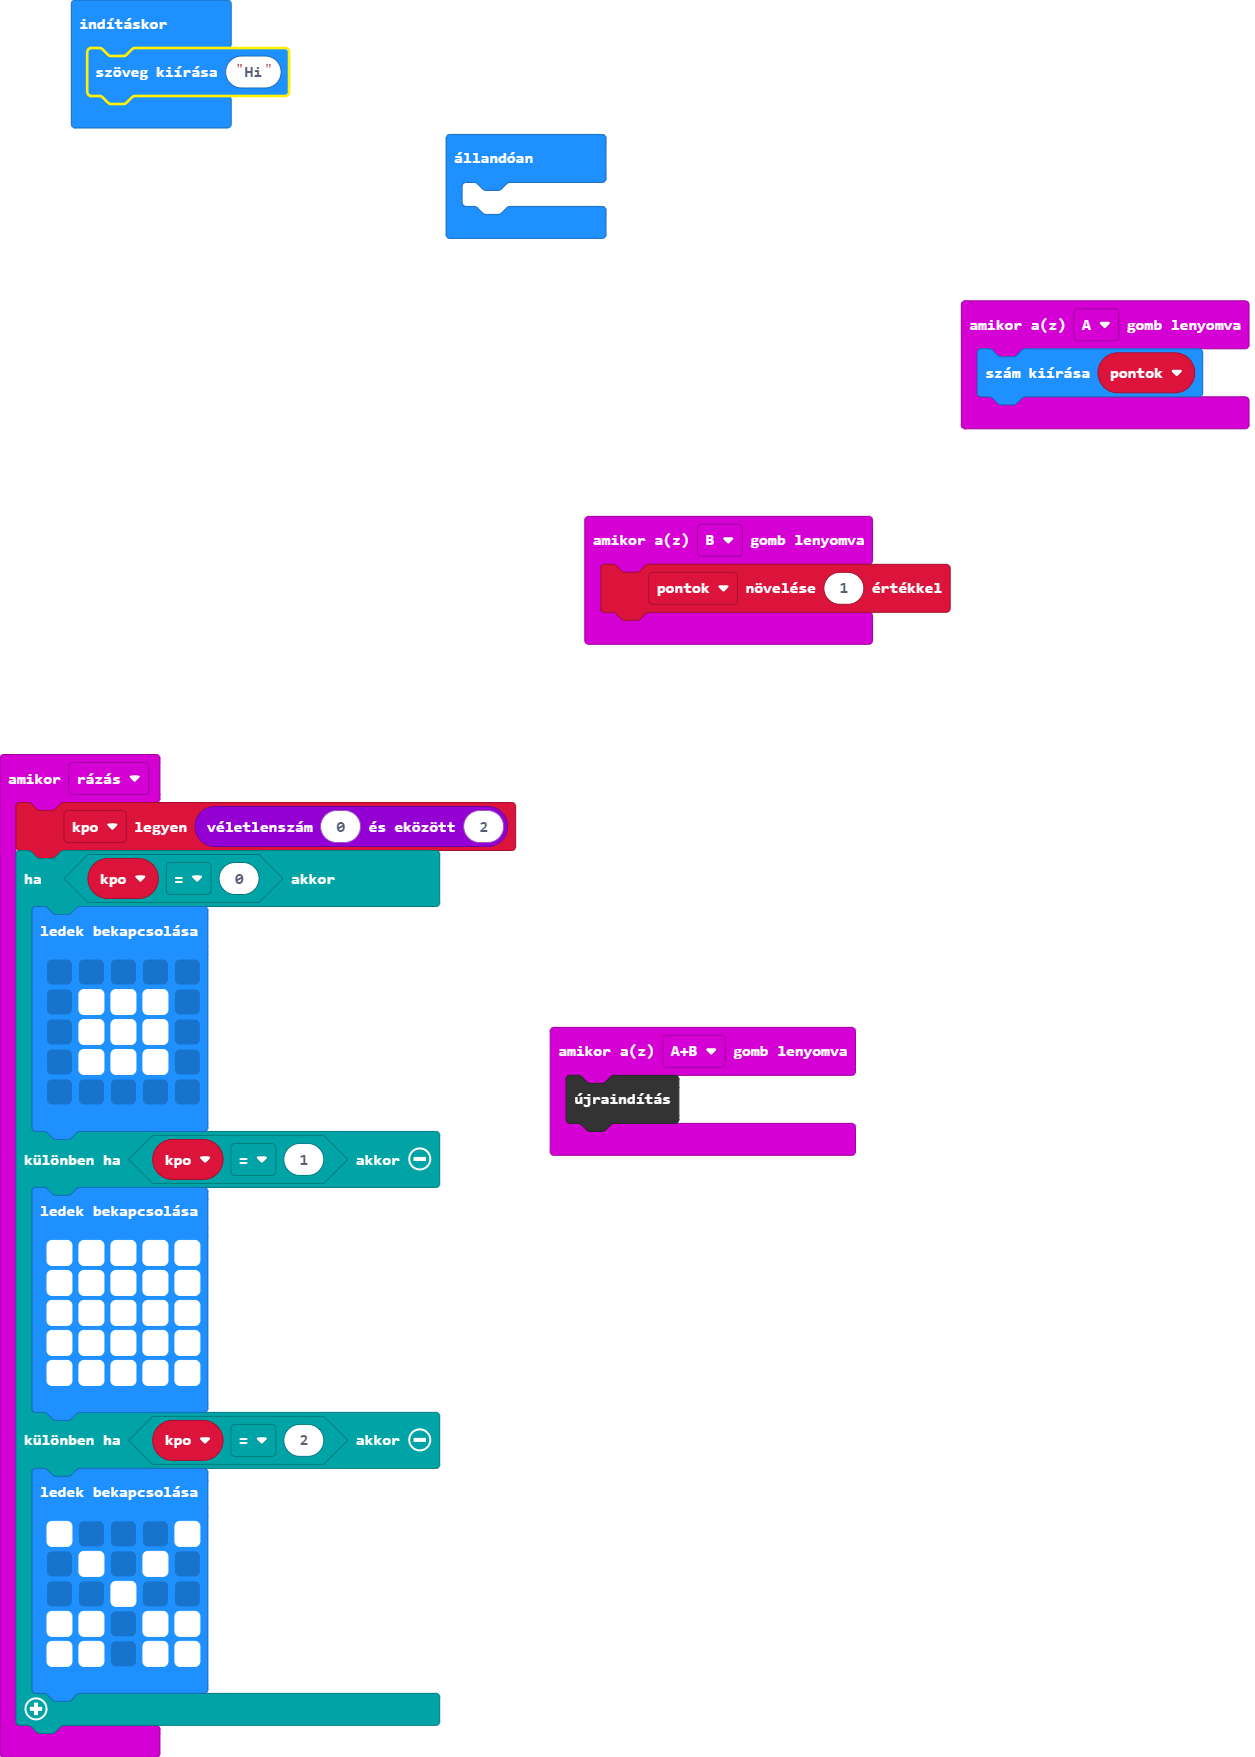
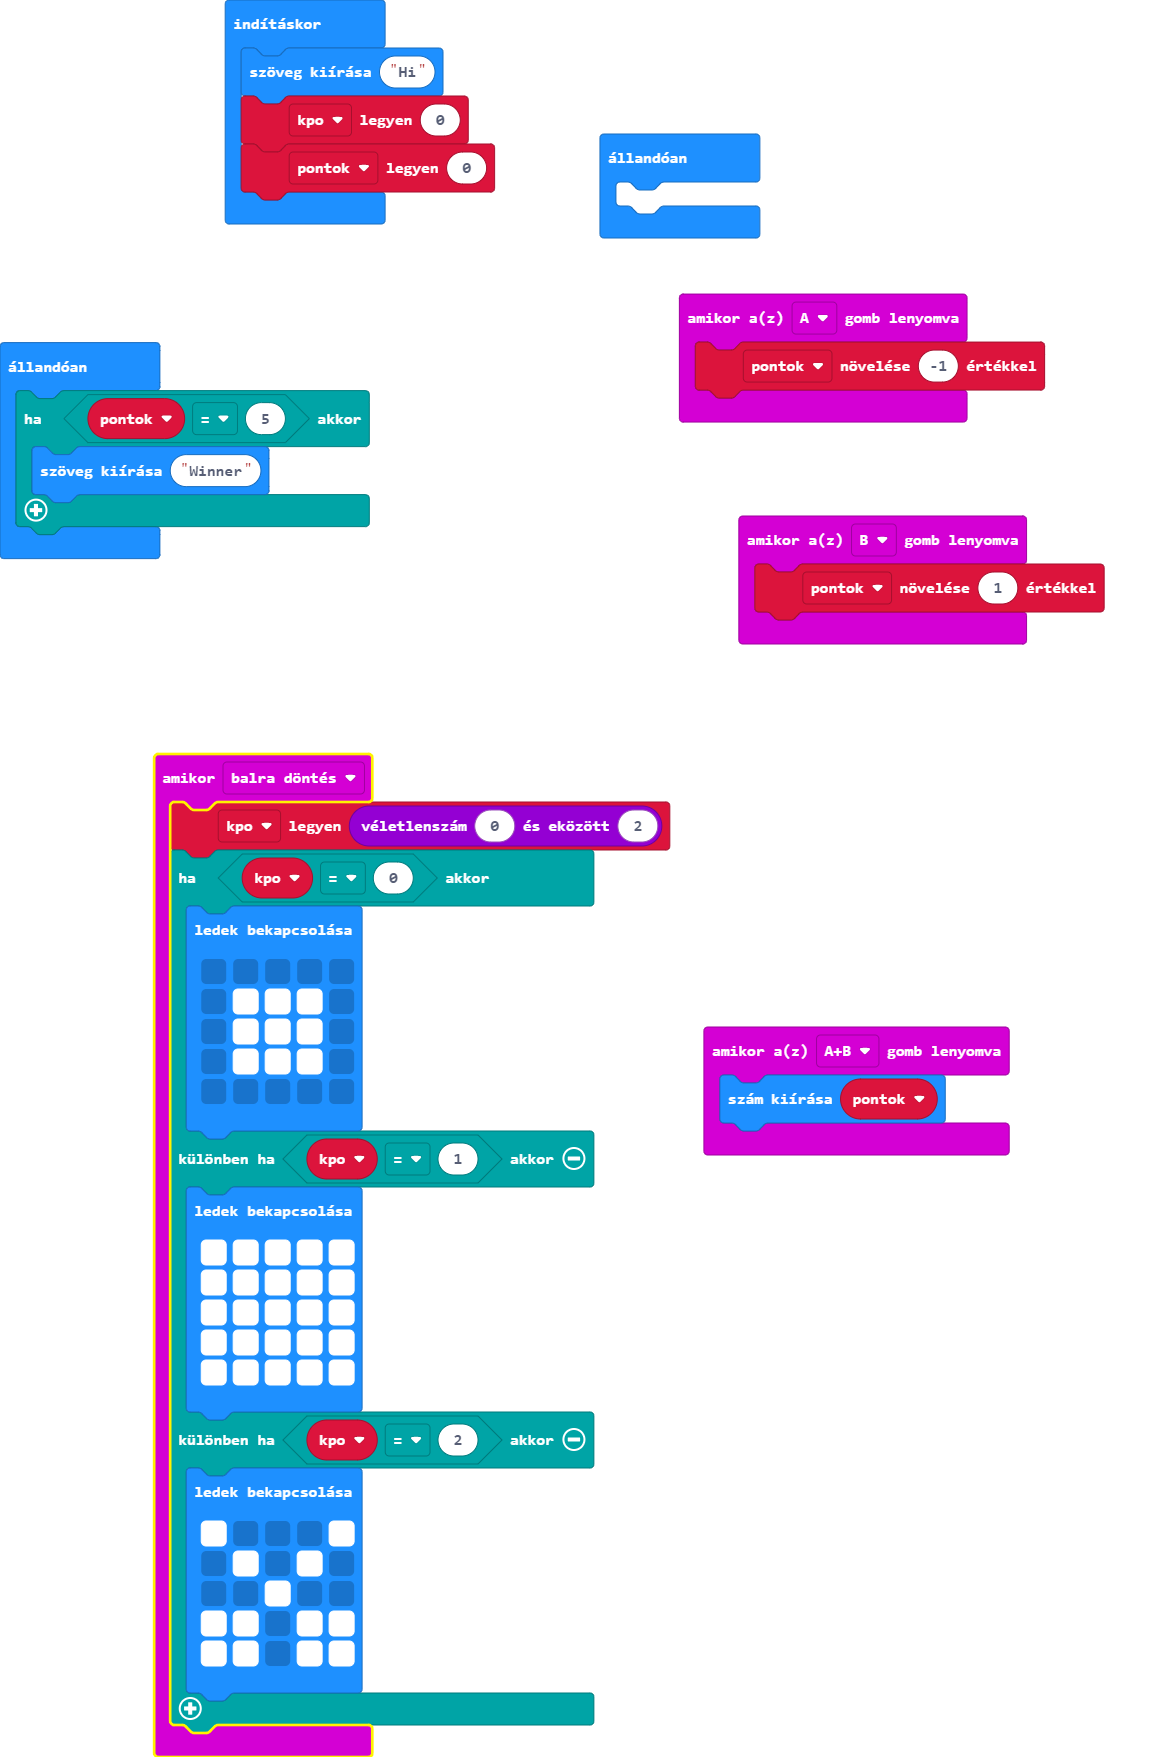
uj

diff --git a/main.ts b/main.ts
@@ -1,7 +1,13 @@
 input.onButtonPressed(Button.A, function () {
+    pontok += -1
+})
+input.onButtonPressed(Button.AB, function () {
     basic.showNumber(pontok)
 })
-input.onGesture(Gesture.Shake, function () {
+input.onButtonPressed(Button.B, function () {
+    pontok += 1
+})
+input.onGesture(Gesture.TiltLeft, function () {
     kpo = randint(0, 2)
     if (kpo == 0) {
         basic.showLeds(`
@@ -29,15 +35,16 @@ input.onGesture(Gesture.Shake, function () {
             `)
     }
 })
-input.onButtonPressed(Button.AB, function () {
-    control.reset()
-})
-input.onButtonPressed(Button.B, function () {
-    pontok += 1
-})
-let kpo = 0
 let pontok = 0
+let kpo = 0
 basic.showString("Hi")
+kpo = 0
+pontok = 0
 basic.forever(function () {
 	
+})
+basic.forever(function () {
+    if (pontok == 5) {
+        basic.showString("Winner")
+    }
 })

diff --git a/main.py b/main.py
@@ -1,0 +1,49 @@
+def on_button_pressed_a():
+    basic.show_number(pontok)
+input.on_button_pressed(Button.A, on_button_pressed_a)
+
+def on_gesture_shake():
+    global kpo
+    kpo = randint(0, 2)
+    if kpo == 0:
+        basic.show_leds("""
+            . . . . .
+            . # # # .
+            . # # # .
+            . # # # .
+            . . . . .
+            """)
+    elif kpo == 1:
+        basic.show_leds("""
+            # # # # #
+            # # # # #
+            # # # # #
+            # # # # #
+            # # # # #
+            """)
+    elif kpo == 2:
+        basic.show_leds("""
+            # . . . #
+            . # . # .
+            . . # . .
+            # # . # #
+            # # . # #
+            """)
+input.on_gesture(Gesture.SHAKE, on_gesture_shake)
+
+def on_button_pressed_ab():
+    control.reset()
+input.on_button_pressed(Button.AB, on_button_pressed_ab)
+
+def on_button_pressed_b():
+    global pontok
+    pontok += 1
+input.on_button_pressed(Button.B, on_button_pressed_b)
+
+kpo = 0
+pontok = 0
+basic.show_string("Hi")
+
+def on_forever():
+    pass
+basic.forever(on_forever)
